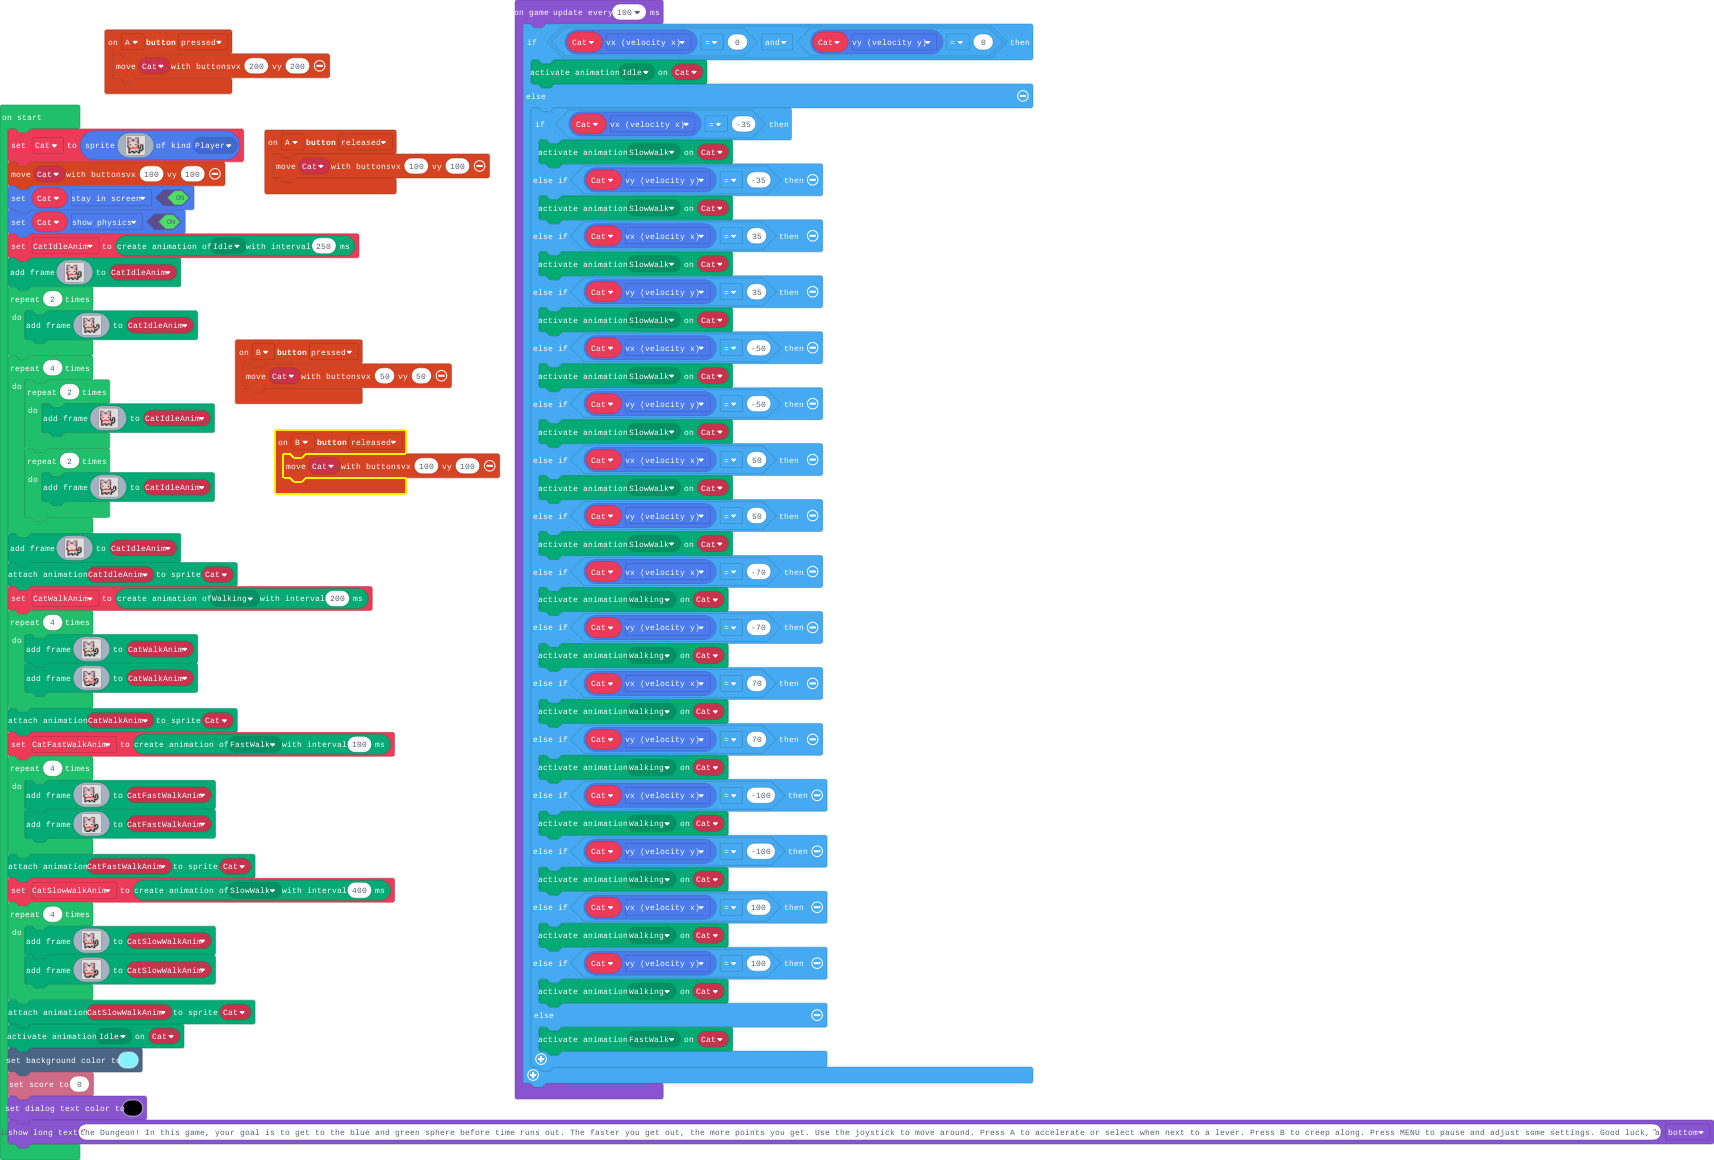
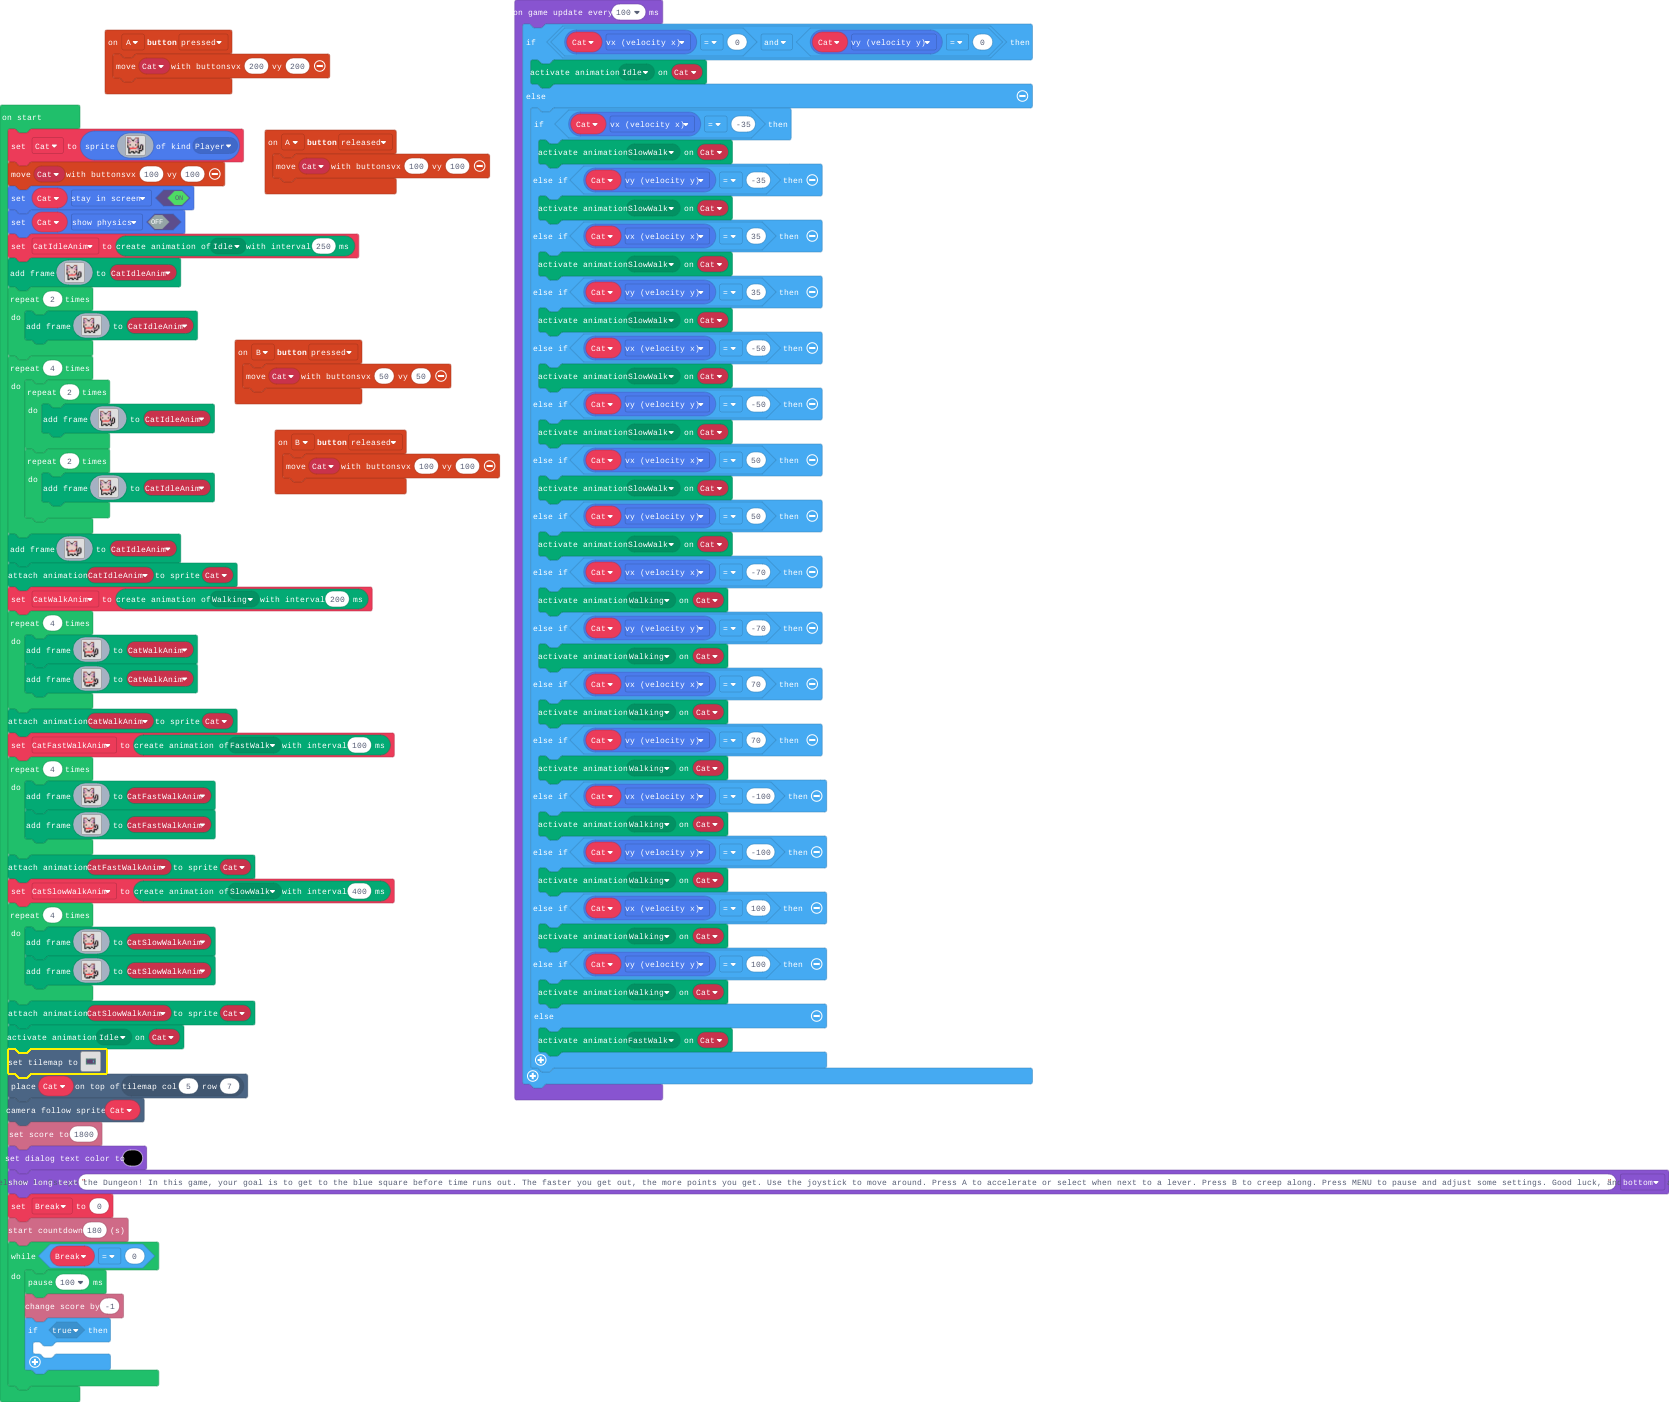
Update main.blocks, main.ts

Changed region(s): [[0.0, 0.0, 1.0, 0.9931]]

diff --git a/main.ts b/main.ts
@@ -5,6 +5,27 @@ enum ActionKind {
     FastWalk,
     SlowWalk
 }
+namespace myTiles {
+    //% blockIdentity=images._tile
+    export const tile0 = img`
+. . . . . . . . . . . . . . . . 
+. . . . . . . . . . . . . . . . 
+. . . . . . . . . . . . . . . . 
+. . . . . . . . . . . . . . . . 
+. . . . . . . . . . . . . . . . 
+. . . . . . . . . . . . . . . . 
+. . . . . . . . . . . . . . . . 
+. . . . . . . . . . . . . . . . 
+. . . . . . . . . . . . . . . . 
+. . . . . . . . . . . . . . . . 
+. . . . . . . . . . . . . . . . 
+. . . . . . . . . . . . . . . . 
+. . . . . . . . . . . . . . . . 
+. . . . . . . . . . . . . . . . 
+. . . . . . . . . . . . . . . . 
+. . . . . . . . . . . . . . . . 
+`
+}
 controller.B.onEvent(ControllerButtonEvent.Pressed, function () {
     controller.moveSprite(Cat, 50, 50)
 })
@@ -36,7 +57,7 @@ f b d d b b d d 2 f . f d f
 `, SpriteKind.Player)
 controller.moveSprite(Cat, 100, 100)
 Cat.setFlag(SpriteFlag.StayInScreen, true)
-Cat.setFlag(SpriteFlag.ShowPhysics, true)
+Cat.setFlag(SpriteFlag.ShowPhysics, false)
 let CatIdleAnim = animation.createAnimation(ActionKind.Idle, 250)
 CatIdleAnim.addAnimationFrame(img`
 e e e . . . . e e e . . . . . 
@@ -236,10 +257,43 @@ f b d d b b d d 2 b f d f .
 }
 animation.attachAnimation(Cat, CatSlowWalkAnim)
 animation.setAction(Cat, ActionKind.Idle)
-scene.setBackgroundColor(9)
-info.setScore(0)
+tiles.setTilemap(tiles.createTilemap(
[1 lines of base64/hex data omitted]
+            img`
+2 2 2 2 2 2 2 2 2 2 2 2 2 2 2 2 
+2 2 2 2 2 2 2 2 2 2 2 2 2 2 2 2 
+2 2 2 2 2 2 2 2 2 2 2 2 2 2 2 2 
+2 2 2 2 2 2 2 2 2 2 2 2 2 2 2 2 
+2 2 2 2 2 2 2 2 2 2 2 2 2 2 2 2 
+2 2 2 2 2 2 2 2 2 2 2 2 2 2 2 2 
+2 2 2 2 . . . . . . . . 2 2 2 2 
+2 2 2 2 . . . . . . . . 2 2 2 2 
+2 2 2 2 . . . . . . . . 2 2 2 2 
+2 2 2 2 . . . . . . . . 2 2 2 2 
+2 2 2 2 2 2 2 2 2 2 2 2 2 2 2 2 
+2 2 2 2 2 2 2 2 2 2 2 2 2 2 2 2 
+2 2 2 2 2 2 2 2 2 2 2 2 2 2 2 2 
+2 2 2 2 2 2 2 2 2 2 2 2 2 2 2 2 
+2 2 2 2 2 2 2 2 2 2 2 2 2 2 2 2 
+2 2 2 2 2 2 2 2 2 2 2 2 2 2 2 2 
+`,
+            [myTiles.tile0,sprites.dungeon.darkGroundNorthWest0,sprites.dungeon.darkGroundWest,sprites.dungeon.darkGroundSouthWest0,sprites.dungeon.darkGroundNorth,sprites.dungeon.darkGroundNorthEast0,sprites.dungeon.darkGroundSouthEast0,sprites.dungeon.darkGroundEast,sprites.dungeon.darkGroundSouth,sprites.dungeon.darkGroundCenter,sprites.dungeon.greenOuterNorth0,sprites.dungeon.greenOuterNorth1,sprites.dungeon.greenOuterNorthWest,sprites.dungeon.greenOuterNorthEast,sprites.dungeon.greenOuterSouthWest,sprites.dungeon.greenOuterSouthEast,sprites.dungeon.greenOuterWest1,sprites.dungeon.greenOuterWest0,sprites.dungeon.greenOuterSouth0,sprites.dungeon.greenOuterSouth1,sprites.dungeon.greenOuterEast0,sprites.dungeon.greenOuterEast1,sprites.dungeon.greenOuterNorth2,sprites.dungeon.greenOuterSouth2,sprites.dungeon.greenOuterEast2,sprites.dungeon.greenOuterWest2,sprites.dungeon.collectibleInsignia],
+            TileScale.Sixteen
+        ))
+tiles.placeOnTile(Cat, tiles.getTileLocation(5, 7))
+scene.cameraFollowSprite(Cat)
+info.setScore(1800)
 game.setDialogTextColor(15)
-game.showLongText("Welcome to Escape the Dungeon! In this game, your goal is to get to the blue and green sphere before time runs out. The faster you get out, the more points you get. Use the joystick to move around. Press A to accelerate or select when next to a lever. Press B to creep along. Press MENU to pause and adjust some settings. Good luck, and get out alive! ", DialogLayout.Bottom)
+game.showLongText("Welcome to Escape the Dungeon! In this game, your goal is to get to the blue square before time runs out. The faster you get out, the more points you get. Use the joystick to move around. Press A to accelerate or select when next to a lever. Press B to creep along. Press MENU to pause and adjust some settings. Good luck, and get out alive! ", DialogLayout.Bottom)
+let Break = 0
+info.startCountdown(180)
+while (Break == 0) {
+    pause(100)
+    info.changeScoreBy(-1)
+    if (true) {
+    	
+    }
+}
 game.onUpdateInterval(100, function () {
     if (Cat.vx == 0 && Cat.vy == 0) {
         animation.setAction(Cat, ActionKind.Idle)
